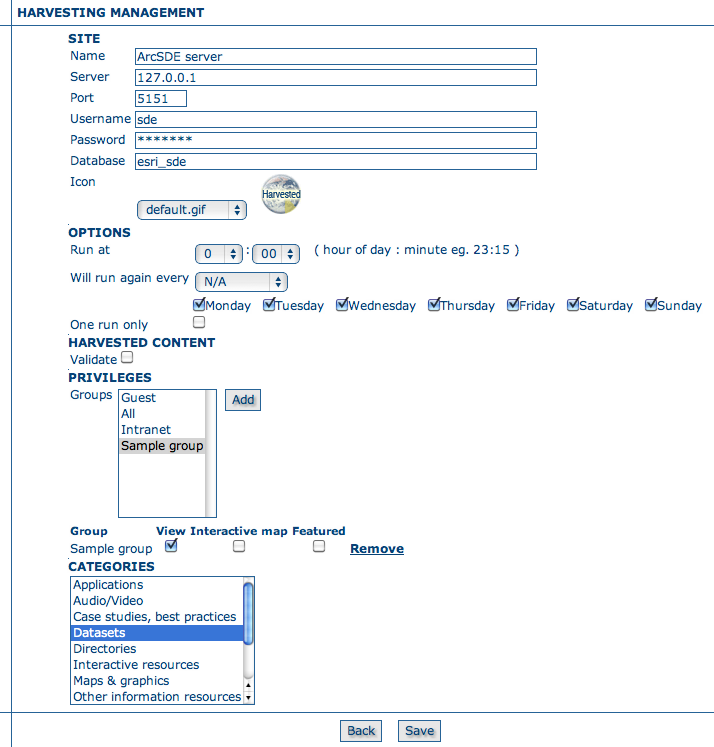
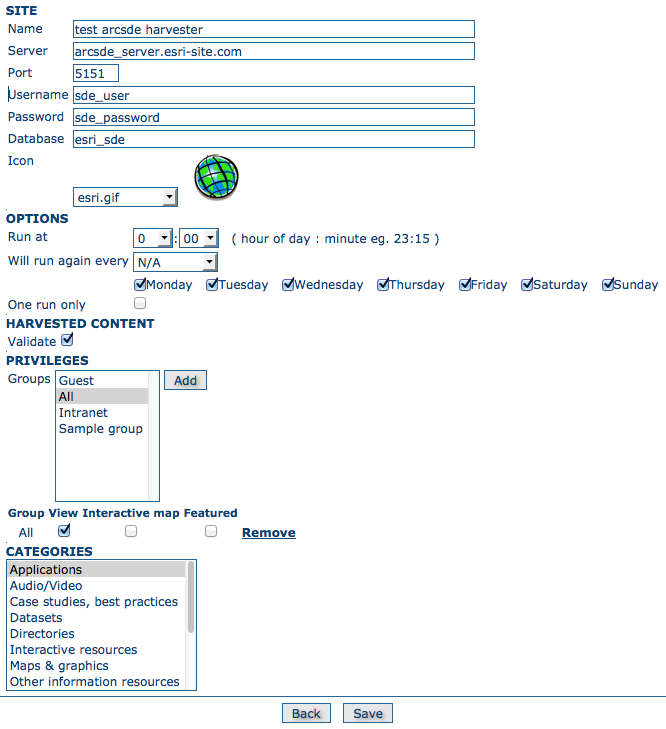
Update and simplify harvester descriptions. Include new screenshots if harvester screenshot out of date.
Still some harvesters to do.

Changed region(s): [[0.0, 0.0, 1.0, 0.9959], [0.4805, 0.7243, 0.5706, 0.7545]]

diff --git a/eng/users/source/managing_metadata/harvesting/gn/index.rst b/eng/users/source/managing_metadata/harvesting/gn/index.rst
@@ -3,58 +3,51 @@
 GeoNetwork Harvesting
 ---------------------
 
-This is the standard and most powerful harvesting protocol used in GeoNetwork. It is able to log in into the remote node, to perform a standard search using the common query fields and to import all matching metadata. Furthermore, the protocol will try to keep both remote privileges and categories of the harvested metadata if they exist locally. Please notice that since GeoNetwork 2.1 the harvesting protocol has been improved. This means that it is not possible to use this protocol to harvest from version 2.0 or below.
+This is the standard and most powerful harvesting protocol used in GeoNetwork. It is able to log in into the remote node, to perform a standard search using the common query fields and to import all matching metadata. Furthermore, the protocol will try to keep both remote privileges and categories of the harvested metadata if they exist locally. 
 
-Notes:
 
-#. During harvesting, site icons are harvested and local copies updated. Icons are propagated to new nodes as soon as these nodes harvest from this one.
-#. The metadata UUID is taken from the info.xml file of the MEF bundle. Any UUID stored inside the metadata will be overwritten with this one.
-
-Adding a GeoNetwork node
-````````````````````````
-
-This type of harvesting allows you to connect to a GeoNetwork node, perform a
-simple search as in the main page and retrieve all matched metadata. The search
-is useful because it allows you to focus only on metadata of interest. Once you
-add a node of this type, you will get a page like the one shown below. 
+Adding a GeoNetwork harvester
+`````````````````````````````
 
 .. figure:: web-harvesting-gn.png
 
-*Adding a GeoNetwork Node*
+*Adding a GeoNetwork Harvester*
 
 A description of the options follows:
 
-- **Site** - Here you put information about the GeoNetwork’s node you want to harvest from. The url should have the format: ``http[s]://server[:port]/geonetwork``. If you want to search protected metadata you have to specify an account. The name parameter is just a short description that will be shown in the main page beside each node. 
+- **Site** - Information about the GeoNetwork site you wish to harvest from. The url should have the format: ``http[s]://server[:port]/geonetwork``. If you want to search privileged metadata you have to specify account credentials that are valid on the remote GeoNetwork site. The name parameter is just a short description that will be used as the name for this instance of the GeoNetwork harvester.
 
-- **Site** - Here you put information about the GeoNetwork’s node you want to harvest from (host, port and servlet). If you want to search protected metadata you have to specify an account. The name parameter is just a short description that will be shown in the main page beside each node. 
+  - **Set categories if exist locally** - This option allows to maintain category assignments. If the metadata belongs to a category on the remote site and a category with the same name is present on the local site, then the harvested metadata will be assigned to that category if this option is checked on.
 
-- **Set categories if exist locally** - This option allows to propagate categories from one node to another for existing 
-  categories in the local node.
+  - **Use full MEF format** - If checked, then the remote site will include any thumbnails and data files with the metadata record they are attached too. The option refers to the fact that the MEF file type used to in this case will be the **full** export type.
 
-- **Use full MEF format** - This option will use the MEF format including document (eg. thumbnails) to retrieve the remote records.
-
-- **XSL filter name** - This option will apply a custom XSL filter before the record is inserted in local node. A common use case is 
-  to anoymize metadata records using the anonymizer process which remove or rename contact personal information (See the :ref:`processing` 
-  section for more information).
+  - **XSL filter name** - This option will apply a custom XSL filter before the record is inserted in local node. A common use case is to anoymize metadata records using the anonymizer process which remove or rename contact personal information (See the :ref:`processing` section for more information).
 
 
-- **Search criteria** - In this section you can specify search parameters: they are the same present in the GeoNetwork homepage. Before doing that, it is important to remember that the GeoNetwork’s harvesting can be hierarchical so a remote node can contain both its metadata and metadata harvested from other nodes and sources. At the beginning, the Source drop down is empty and you have to use the **Retrieve sources** button to fill it. The purpose of this button is to query GeoNetwork about all sources which it is currently harvesting from. Once you get the drop down filled, you can choose a source name to constrain the search to that source only. Leaving the drop down blank, the search will spread over all metadata (harvested and not). You can add several search criteria for each site through the **Add** button: several searches will be performed and results merged. Each search box can be removed pressing the small button on the left of the site’s name. If no search criteria is added, a global unconstrained search will be performed. 
+- **Search criteria** - In this section you can specify search parameters to select metadata records for harvesting. The parameters are the same or similar to those found on the GeoNetwork search form.
 
-- **Options** - This is just a container for general options.
+  - *source*: A GeoNetwork site can contain both its own metadata and metadata harvested from other sources. Use the **Retrieve sources** button to retrieve the sources from the remote site. You can then choose a source name to constrain the search to a particular source. eg. You could constrain the search to the source representing metadata that has not been harvested from other sites. Leaving **source** blank will retrieve *all* metadata from the remote site. 
 
-    - *Run at* - This is the harvesting start time. 
-    - *Will run again every* - This option allows to select the schedule interval (each X hours from start time) and days to schedule the harvester.
-    - *One run only* - If this option is checked, the harvesting will do only one run after which it will become inactive. 
+  You can add multiple search criteria through the **Add** button: multiple searches will be performed and results merged. Search criteria sets an be removed using the small cross button at the top left of the criteria set. If no search criteria are added, a global unconstrained search will be performed. 
+
+- **Options** - Scheduling Options.
+
+.. include:: ../common_options.rst
     
-- **Privileges** - Here you decide how to map remote group’s privileges. You can assign a copy policy to each group. The Intranet group is not considered because it does not make sense to copy its privileges. 
+- **Harvested Content**
 
-    - The **All** group has different policies from all the others:
+  - *Validate* - if checked then harvested metadata records will be validated
+    against the relevant metadata schema. Invalid records will be rejected.
+
+- **Privileges** - Use this section to handle remote group privileges. Press the **Retrieve groups** button and the list of groups on the remote site will be returned. You can then assign a copy policy to each group. 
+
+    - The **All** group has a different policy to the other groups:
 
         #.  Copy: Privileges are copied.
         #.  Copy to Intranet: Privileges are copied but to the Intranet group.
-            This way public metadata can be made protected.
-        #.  Don’t copy: Privileges are not copied and harvested metadata will not
-            be publicly visible.
+            This allows public metadata to be protected.
+        #.  Don't copy: Privileges are not copied and harvested metadata will 
+				    not be publicly visible.
 
     - For all other groups the policies are these:
 
@@ -62,4 +55,20 @@ A description of the options follows:
             same (not localised) name as the remote group.
         #.  Create and copy: Privileges are copied. If there is no local group
             with the same name as the remote group then it is created.
-        #.  Don’t copy: Privileges are not copied.
+        #.  Don't copy: Privileges are not copied.
+
+.. note:: The Intranet group is not considered because it does not make sense to copy its privileges. 
+
+- **Categories**
+
+  - Select one or more categories from the scrolling list. The harvested metadata will be assigned to the selected categories (except where the **Set categories if exist locally** option described above causes the metadata to be assigned to a matching local category).
+
+Notes
+`````
+
+- This harvester will not work if the remote site has a version prior to GeoNetwork 2.1 eg. GeoNetwork 2.0.2.
+- During harvesting, site icons are harvested and local copies updated. Icons are propagated to new nodes as soon as these nodes harvest from this one.
+- The metadata UUID is taken from the info.xml file of the MEF bundle. Any UUID stored inside the metadata will be given this UUID.
+
+.. include:: ../common_notes.rst
+

diff --git a/eng/users/source/managing_metadata/harvesting/oaipmh/index.rst b/eng/users/source/managing_metadata/harvesting/oaipmh/index.rst
@@ -5,44 +5,55 @@ OAIPMH Harvesting
 
 This is a harvesting protocol that is widely used among libraries. GeoNetwork implements version 2.0 of the protocol.
         
-*Notes:*
 
-#.  The id of the remote server must be a UUID. If not, metadata can be
-    harvested but during hierarchical propagation id clashes could corrupt
-    harvested metadata.
-#.  During harvesting, GeoNetwork will try to auto detect the schema of
-    each metadata. If the schema is not supported the metadata is
-    skipped.
-
-Adding an OAI-PMH node
-``````````````````````
+Adding an OAI-PMH harvester
+```````````````````````````
 
 An OAI-PMH server implements a harvesting protocol that GeoNetwork, acting as
-a client, can use to harvest metadata. If you are requesting the oai_dc output
-format, GeoNetwork will convert it into its Dublin Core format. Other formats
-can be harvested only if GeoNetwork supports them and is able to autodetect the
-schema from the metadata.
+a client, can use to harvest metadata. 
 
 .. figure:: web-harvesting-oaipmh.png
 
-    *Adding an OAI-PMH harvesting node*
+    *Adding an OAI-PMH harvesting harvester*
 
 Configuration options:
 
-- **Site** - All options are the same as WebDAV harvesting. The only difference is that the URL parameter here points to an OAI-PMH server. This is the entry point that GeoNetwork will use to issue all PMH commands. 
-- **Search criteria** - This part allows you to restrict the harvesting to specific metadata subsets. You can specify several searches: GeoNetwork will execute them sequentially and results will be merged to avoid the harvesting of the same metadata. Several searches allow you to specify different search criteria. In each search, you can specify the following parameters:
+- **Site** - Options describing the remote site. 
 
-    - *From* - You can provide a start date here. All metadata whose last change date is equal to or greater than this date will be harvested. You cannot simply edit this field but you have to use the icon to popup a calendar and choose the date. This field is optional so if you don’t provide it the start date constraint is dropped. Use the icon to clear the field. 
-    - *Until* - Works exactly as the from parameter but adds an end constraint to the last change date. The until date is included in the date range, the check is: less than or equal to. 
-    - *Set* - An OAI-PMH server classifies its metadata into hierarchical sets. You can request to return metadata that belong to only one set (and its subsets). This narrows the search result. Initially the drop down shows only a blank option that indicate *no set*. After specifying the connection URL, you can press the **Retrieve Info** button, whose purpose is to connect to the remote node, retrieve all supported sets and prefixes and fill the search drop downs. After you have pressed this button, you can select a remote set from the drop down. 
-    - *Prefix* - Here prefix means metadata format. The oai_dc prefix is mandatory for any OAI-PMH compliant server, so this entry is always present into the prefix drop down. To have this drop down filled with all prefixes supported by the remote server, you have to enter a valid URL and press the Retrieve Info button.
-    - You can use the Add button to add one more search to the list. A search can be removed clicking the icon on its left. 
+  - *Name* - This is a short description of the remote site. It will be shown in the harvesting main page as the name for this instance of the OAIPMH harvester.
+  - *URL* - The URL of the OAI-PMH server from which metadata will be harvested.
+  - *Icon* - An icon to assign to harvested metadata. The icon will be used when showing search results.
+  - *Use account* - Account credentials for basic HTTP authentication on the OAIPMH server.
+
+- **Search criteria** - This allows you to select metadata records for harvest based on certain criteria: 
+
+    - *From* - You can provide a start date here. Any metadata whose last change date is equal to or greater than this date will be harvested. To add or edit a value for this field you need to use the icon alongside the text box. This field is optional so if you don't provide a start date the constraint is dropped. Use the icon to clear the field. 
+    - *Until* - Functions in the same way as the *From* parameter but adds an end constraint to the last change date search. Any metadata whose last change data is less than or equal to this data will be harvested.
+    - *Set* - An OAI-PMH server classifies metadata into sets (like categories in GeoNetwork). You can request all metadata records that belong to a set (and any of its subsets) by specifying the name of that set here.
+    - *Prefix* - 'Prefix' means metadata format. The oai_dc prefix must be supported by all OAI-PMH compliant servers. 
+    You can use the Add button to add more than one Search Criteria set. Search Criteria sets can be removed by clicking on the small cross at the top left of the set.
+
+.. note:: the 'OAI provider sets' drop down next to the *Set* text box and the 'OAI provider prefixes' drop down next to the *Prefix* textbox are initially blank. After specifying the connection URL, you can press the **Retrieve Info** button, which will connect to the remote OAI-PMH server, retrieve all supported sets and prefixes and fill the drop downs with these values. Selecting a value from either of these drop downs will fill the appropriate text box with the selected value. 
+
     
-- **Options** - Most options are equivalent to WebDAV harvesting. 
+- **Options** - Scheduling Options. 
 
-    - *Validate* - The validate option, when checked, will validate each harvested metadata against GeoNetwork’s schemas. Only valid metadata will be harvested. Invalid one will be skipped. 
+.. include:: ../common_options.rst
     
-- **Privileges** - Same as for WebDAV harvesting. 
-- **Categories** - Same as for WebDAV harvesting.
+- **Privileges**
 
-Please note that when you edit a previously created node, both the *set* and *prefix* drop down lists will be empty. They will contain only the previously selected entries, plus the default ones if they were not selected. Furthermore, the set name will not be localised but the internal code string will be displayed. You have to press the retrieve info button again to connect to the remote server and retrieve the localised name and all set and prefix information.
+.. include:: ../common_privileges.rst
+
+- **Categories**
+
+.. include:: ../common_categories.rst
+
+
+Notes
+`````
+
+- if you request the oai_dc output format, GeoNetwork will convert it to Dublin Core format. 
+- when you edit a previously created OAIPMH harvester instance, both the *set* and *prefix* drop down lists will be empty. You have to press the retrieve info button again to connect to the remote server and retrieve set and prefix information.
+- the id of the remote server must be a UUID. If not, metadata can be harvested but during hierarchical propagation id clashes could corrupt harvested metadata.
+
+.. include:: ../common_notes.rst

diff --git a/eng/users/source/managing_metadata/harvesting/webdav/index.rst b/eng/users/source/managing_metadata/harvesting/webdav/index.rst
@@ -1,43 +1,45 @@
 .. _webdav_harvester:
 
 WEBDAV Harvesting
-=================
+-----------------
 
-This harvesting type uses the webDAV (Distributed Authoring and Versioning) protocol to harvest metadata from a DAV server. It can be useful to users that want to publish their metadata through a web server that offers a DAV interface. The protocol allows to retrieve the contents of a web page (a list of files) with their change date.
+This harvesting type uses the WebDAV (Distributed Authoring and Versioning) protocol or the WAF (web accessible folder) protocol to harvest metadata from a web server. It can be useful to users that want to publish their metadata through a web server that offers a DAV interface. The protocol permits retrieval of the contents of a web page (a list of files) along with the change date.
 
-*Notes:*
-
-#.  The same metadata could be harvested several times by different
-    harvesting nodes. Anyway, this is not a good practise because every copy
-    of the metadata will have a different UUID and the system will fill with
-    different copies of the same metadata.
-
-Adding a WebDAV node
-````````````````````
-
-In this type of harvesting, metadata are retrieved from a remote web page. The
-available options are shown below and have the following meaning:
+Adding a WebDAV harvester
+`````````````````````````
 
 .. figure:: web-harvesting-webdav.png
 
-    *Adding a WebDAV node*
+    *Adding a WebDAV harvester*
 
-- **Site** - This contains the connection information.
+- **Site** - Options about the remote site.
 
-    - *Name* - This is a short description of the node. It will be shown in the harvesting main page. 
-    - *URL* - The remote URL from which metadata will be harvested. Each file found that ends with .xml will indicate a metadata and will be retrieved, converted into XML and imported.
-    - *Icon* - Just an icon to assign to harvested metadata. The icon will be used when showing search results. 
-    - *Use account* - Account credentials for a basic HTTP authentication towards the remote URL. 
+    - *Subtype* - Select WebDAV or WAF according to the type of server being harvested.
+    - *Name* - This is a short description of the remote site. It will be shown in the harvesting main page as the name for this instance of the WebDAV harvester.
+    - *URL* - The remote URL from which metadata will be harvested. Each file found that ends with .xml is assumed to be a metadata record.
+    - *Icon* - An icon to assign to harvested metadata. The icon will be used when showing search results. 
+    - *Use account* - Account credentials for basic HTTP authentication on the WebDAV/WAF server.
 
-- **Options** - General harvesting options.
+- **Options** - Scheduling options.
 
-    - *Run at* - This is the harvesting start time. 
-    - *Will run again every* - This option allows to select the schedule interval (each X hours from start time) and days to schedule the harvester.
-    - *Validate* - If checked, the metadata will be validate during import. If the validation does not pass, the metadata will be skipped. 
+.. include:: ../common_options.rst
+
+- **Options** - Specific harvesting options for this harvester.
+
+    - *Validate* - If checked, the metadata will be validated after retrieval. If the validation does not pass, the metadata will be skipped. 
     - *Recurse* - When the harvesting engine will find folders, it will recursively descend into them. 
-- **Privileges** - Here it is possible to assign privileges to imported metadata. 
 
-    - *Groups* - Groups area lists all available groups in GeoNetwork. Once one (or more) group has been selected, it can be added through the **Add** button (each group can be added only once). For each added group, a row of privileges is created at the bottom of the list to allow privilege selection. 
-    - *Remove* - To remove a row simply press the associated Remove button on its right. 
-    
-- **Categories** - Here you can assign local categories to harvested metadata.
+- **Privileges** - Assign privileges to harvested metadata. 
+
+.. include:: ../common_privileges.rst
+
+- **Categories** 
+
+.. include:: ../common_categories.rst
+
+Notes
+`````
+
+- The same metadata could be harvested several times by different instances of the WebDAV harvester. This is not good practise because copies of the same metadata record will have a different UUID.
+.. include:: ../common_notes.rst
+

diff --git a/eng/users/source/managing_metadata/harvesting/csw/index.rst b/eng/users/source/managing_metadata/harvesting/csw/index.rst
@@ -3,12 +3,10 @@
 CSW Harvesting
 --------------
 
-Adding a CSW node
-`````````````````
+This harvester will connect to a remote CSW server and retrieve metadata records that match the query parameters specified.
 
-This type of harvesting is capable of connecting to a remote CSW server and
-retrieving all matching metadata. Please, note that in order to be harvested
-metadata must have one of the schema format handled by GeoNetwork.
+Adding a CSW harvester
+``````````````````````
 
 .. figure:: web-harvesting-csw.png
 
@@ -16,13 +14,32 @@ metadata must have one of the schema format handled by GeoNetwork.
 
 The figure above shows the options available:
 
-- **Site** - Here you have to specify the connection parameters which are similar to the web DAV harvesting. In this case the URL points to the capabilities document of the CSW server. This document is used to discover the location of the services to call to query and retrieve metadata. 
-- **Search criteria** - Using the Add button, you can add several search criteria. You can query only the fields recognised by the CSW protocol. 
-- **Options** - General harvesting options:
+- **Site** - Options about the remote site.
 
-    - *Run at* - This is the harvesting start time. 
-    - *Will run again every* - This option allows to select the schedule interval (each X hours from start time) and days to schedule the harvester.
-    - *One run only* - If this option is checked, the harvesting will do only one run after which it will become inactive. 
-    
-- **Privileges** - Same as for WebDAV harvesting.
-- **Categories** - Same as for WebDAV harvesting.
+    - *Name* - This is a short description of the remote site. It will be shown in the harvesting main page as the name for this instance of the CSW harvester.
+    - *Service URL* - The URL of the capabilities document of the CSW server to be harvested. eg. http://geonetwork-site.com/srv/eng/csw?service=CSW&request=GetCabilities&version=2.0.2. This document is used to discover the location of the services to call to query and retrieve metadata. 
+    - *Icon* - An icon to assign to harvested metadata. The icon will be used when showing harvested metadata records in the search results. 
+    - *Use account* - Account credentials for basic HTTP authentication on the CSW server.
+
+- **Search criteria** - Using the Add button, you can add several search criteria. You can query only the fields recognised by the CSW protocol. 
+
+- **Options** - Scheduling options.
+
+.. include:: ../common_options.rst
+
+- **Options** - Specific harvesting options for this harvester.
+
+    - *Validate* - If checked, the metadata will be validated after retrieval. If the validation does not pass, the metadata will be skipped. 
+
+- **Privileges** - Assign privileges to harvested metadata. 
+
+.. include:: ../common_privileges.rst
+
+- **Categories** 
+
+.. include:: ../common_categories.rst
+
+Notes
+`````
+
+.. include:: ../common_notes.rst

diff --git a/eng/users/source/managing_metadata/harvesting/sde/index.rst b/eng/users/source/managing_metadata/harvesting/sde/index.rst
@@ -8,12 +8,7 @@ This is a harvesting protocol for metadata stored in an ArcSDE installation.
 Adding an ArcSDE server
 ```````````````````````
 
-The ArcSDE harvester allows harvesting metadata from an ArcSDE installation. ArcSDE java API libraries are required to be installed by the user in GeoNetwork (folder ``INSTALL_DIR/web/geonetwork/WEB-INF/lib``), as these are proprietary libraries not distributed with GeoNetwork: 
-	
-	- jpe_sdk.jar
-	- jsde_sdk.jar
-	
-.. note :: dummy-api-XXX.jar must be removed from ``INSTALL_DIR/web/geonetwork/WEB-INF/lib``
+.. note :: Additional installation steps are required to use the ArcSDE harvester because it needs proprietary ESRI java api jars to be installed. See the Developers Manual, Settings for Harvester type arcsde
 
 The harvester identifies the ESRI metadata format: ESRI ISO, ESRI FGDC to apply the required xslts to transform metadata to ISO19139
 
@@ -26,13 +21,25 @@ Configuration options:
 - **Site** 
 
 	- *Name* - This is a short description of the node. It will be shown in the harvesting main page.  
-	- *Server* - ArcSde server IP or name
+	- *Server* - ArcSde server IP address or name
 	- *Port* - ArcSde service port (typically 5151)
 	- *Username* - Username to connect to ArcSDE server
 	- *Password* - Password of the ArcSDE user
 	- *Database name* - ArcSDE instance name (typically esri_sde)
 
-- **Options** - Same as for WebDAV harvesting. 
-- **Privileges** - Same as for WebDAV harvesting. 
-- **Category for service** - Metadata for the harvested service is linked to the category selected for the service (usually "interactive resources").
-- **Category for datasets** - For each dataset, the "category for datasets" is linked to each metadata for datasets.
+- **Options**
+
+.. include:: ../common_options.rst
+
+- **Harvested Content**
+
+  - *Validate* - if checked then harvested metadata records will be validated
+    against the relevant metadata schema. Invalid records will be rejected.
+
+- **Privileges**
+
+.. include:: ../common_privileges.rst
+
+- **Categories** 
+
+.. include:: ../common_categories.rst

diff --git a/eng/users/source/managing_metadata/harvesting/gn2.0/index.rst b/eng/users/source/managing_metadata/harvesting/gn2.0/index.rst
@@ -1,7 +1,7 @@
 .. _gn2_harvester:
 
-Harvesting from a GeoNetwork 2.0 Node
-=====================================
+GeoNetwork 2.0 Harvester
+------------------------
 
 GeoNetwork 2.1 introduced a new powerful harvesting engine which is not compatible with GeoNetwork version 2.0 based catalogues. Old 2.0 servers can still harvest from 2.1 servers but harvesting metadata from a v2.0 server requires this harvesting type. Due to the fact that GeoNetwork 2.0 was released more than 5 years ago, this harvesting type is deprecated.
 

diff --git a/eng/users/source/managing_metadata/harvesting/common_options.rst b/eng/users/source/managing_metadata/harvesting/common_options.rst
@@ -1,0 +1,3 @@
+    - *Run at* - The time when the harvester will run.
+    - *Will run again every* - Choose an interval from the drop down list and then select the days for which this scheduling will take place.
+    - *One run only* - Checking this box will cause the harvester to run only when manually started using the ``Run`` button on the Harvesting Management page.

diff --git a/eng/users/source/managing_metadata/harvesting/common_privileges.rst b/eng/users/source/managing_metadata/harvesting/common_privileges.rst
@@ -1,0 +1,2 @@
+    - *Groups* - Groups can be selected from the scrolling list. When the ``Add`` button is pushed, a row of privileges will be created below the scrolling list for each group. Privileges can then be checked/unchecked for each group as required.
+    - *Remove* - To remove a row click on the ``Remove`` button on the right of the row. 

diff --git a/eng/users/source/managing_metadata/harvesting/common_notes.rst b/eng/users/source/managing_metadata/harvesting/common_notes.rst
@@ -1,0 +1,1 @@
+- in order to be successfully harvested, metadata records retrieved from the remote site must match a metadata schema in the local GeoNetwork instance

diff --git a/eng/users/source/managing_metadata/harvesting/common_categories.rst b/eng/users/source/managing_metadata/harvesting/common_categories.rst
@@ -1,0 +1,1 @@
+    - Select one or more categories from the scrolling list. The harvested metadata will be assigned to the selected categories.
